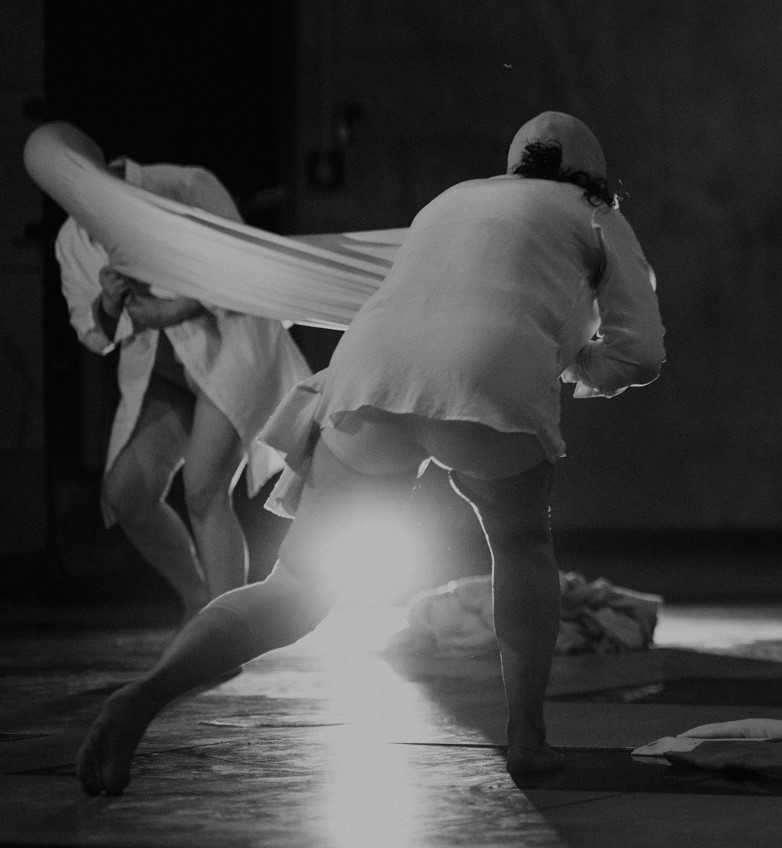
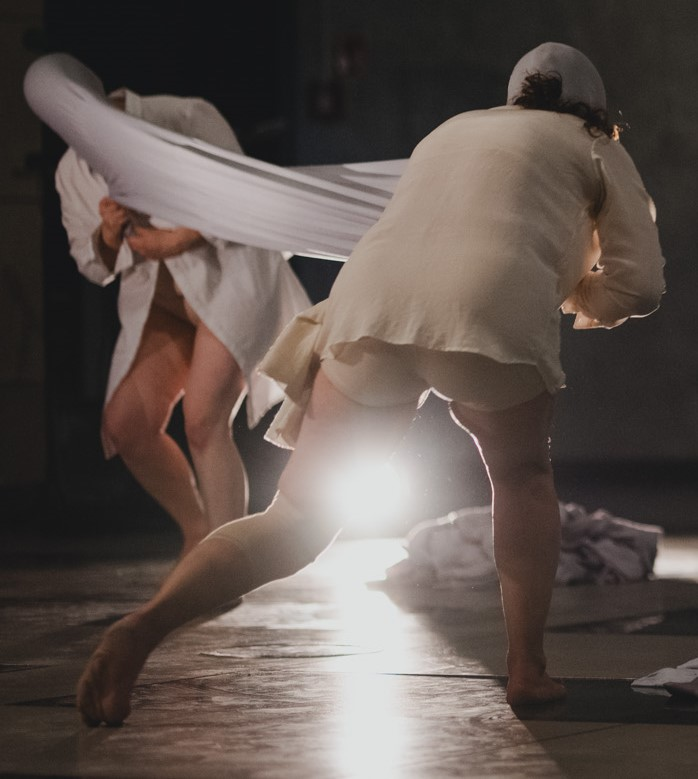
xz1

diff --git a/uchastuproects/uchast__7.html b/uchastuproects/uchast__7.html
@@ -31,20 +31,20 @@
     </nav>
 
     <main class="section_pr_1">
-        <h1 class="title__1 lang33_1"><strong class="lang33_1" key="zag33_1">Bronisława Niżyńska</strong>
-            <span class="lang33_1" key="zag33_2">(Kijów, Ukraina 2021)</span> </h1>      
+        <h1 class="title__1 lang33_7"><strong class="lang33_7" key="zag33_44">MIKROCIAŁO</strong>
+            <span class="lang33_1" key="zag33_55">(Poznań, Polska 2024)</span> </h1>      
             <div class="container">          
                 <div class="foto__text">
                         <img class="foto_home_2_3" src="../img/uchast/7_1.jpg">
                         <div class="foto__text1"> 
                             <div class="foto__text1 lang33_1"> 
-                                <span class="lang33_1" key="punkt33_1_1">Inicjatorka projektu, choreografka-badaczka: Svitlana Oleksiuk</span><br>
-                                <span class="lang33_1" key="punkt33_1_2">Kurator i producent projektu: Viktor Ruban</span><br>
-                                <span class="lang33_1" key="punkt33_1_3">Kompozytor: Yana Shlyabanska</span><br>
-                                <span class="lang33_1" key="punkt33_1_4">Scenograf i kostiumograf: Bohdan Polishchuk,</span><br>
-                                <span class="lang33_1" key="punkt33_1_5">Dramaturg / outside-eye: Victoria Myronyuk</span><br> 
-                                <span class="lang33_1" key="punkt33_1_6">Wystąpili tancerze: Olha Kebas, Diana Gebre,</span><br>
-                                <span class="lang33_1" key="punkt33_1_7">Olha Wydyszewa, Wiktoria Choroszyłowa</span>   
+                                <span class="lang33_7" key="punkt33_1_1">Inicjatorka projektu, choreografka-badaczka: Svitlana Oleksiuk</span><br>
+                                <span class="lang33_7" key="punkt33_1_2">Kurator i producent projektu: Viktor Ruban</span><br>
+                                <span class="lang33_7" key="punkt33_1_3">Kompozytor: Yana Shlyabanska</span><br>
+                                <span class="lang33_7" key="punkt33_1_4">Scenograf i kostiumograf: Bohdan Polishchuk,</span><br>
+                                <span class="lang33_7" key="punkt33_1_5">Dramaturg / outside-eye: Victoria Myronyuk</span><br> 
+                                <span class="lang33_7" key="punkt33_1_6">Wystąpili tancerze: Olha Kebas, Diana Gebre,</span><br>
+                                <span class="lang33_7" key="punkt33_1_7">Olha Wydyszewa, Wiktoria Choroszyłowa</span>   
                             </div>
                         </div>
                 </div>
@@ -62,12 +62,12 @@
                             </div>
  <button onclick="onBack()" class="backButton">back</button>
                                 <div class="gallery_pr">
-                                    <img src="../img/uchast/1_2hp.jpg" alt="img">
-                                    <img src="../img/uchast/1_3.jpg" alt="img">
-                                    <img src="../img/uchast/1_8.jpg" alt="img">
-                                    <img src="../img/uchast/1_5.jpg" alt="img">
-                                    <img src="../img/uchast/1_6.jpg" alt="img">
-                                    <img src="../img/uchast/1_7.jpg" alt="img">
+                                    <img src="../img/uchast/7_1.jpg" alt="img">
+                                    <img src="../img/uchast/7_1.jpg" alt="img">
+                                    <img src="../img/uchast/7_1.jpg" alt="img">
+                                    <img src="../img/uchast/7_1.jpg" alt="img">
+                                    <img src="../img/uchast/7_1.jpg" alt="img">
+                                    <img src="../img/uchast/7_1.jpg" alt="img">
                                 </div>
             </div>
     </main>

diff --git a/js/jquery.min.js b/js/jquery.min.js
@@ -229,7 +229,7 @@ var arrLang3 = {
 var arrLang4 = {
   'pl': {
     'postanovochna4': 'Doświadczenie rezyserskie i artystyczne',
-    'uchastup roect4': 'Udział w projektach',
+    'uchastuproect4': 'Udział w projektach',
     'upravlenieproect4': 'Zarządzanie projektami',
     'nauka4': 'Nauka, badania, ekspertyza',
     'prepod4': 'Doświadczenie zawodowe wykładowcy',
@@ -885,6 +885,7 @@ var arrLang33 = {
     'zag5': 'Tu, tam, gdzieś... (Ukraina 2019)',
     'zag6': 'TRALFAMADORE (Kijów, Ukraina 2018)',
     'zag7': '60 MOVES with FUTURE GAZE (Ukraina-USA, 2018)',
+    'zag8': 'MIKROCIAŁO (Poznań, Polska 2024)'
   },
   'ukr': {
     'postanovochna': 'Постановочно-виконавська діяльність',

diff --git a/uchastuproect.html b/uchastuproect.html
@@ -39,7 +39,7 @@
                 <li class="project">
                     <a href="./uchastuproects/uchast__7.html">
                     <img src="./img/uchast/7_1.jpg" alt="project img" class="project__img">
-                    <h3 class="project_title lang33" key="zag2">Bronisława Niżyńska (Kijów 2021, Drezno 2023)</h3>
+                    <h3 class="project_title lang33" key="zag8">MIKROCIAŁO (Poznań, Polska 2024)</h3>
                     </a>
                 </li>   
 
